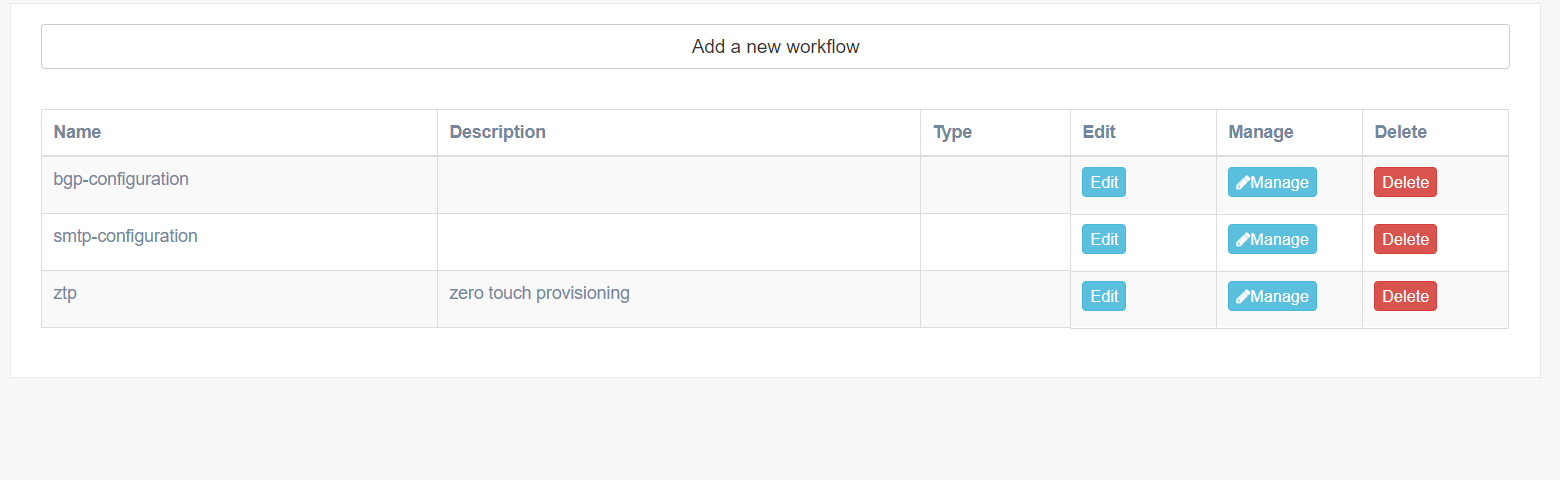
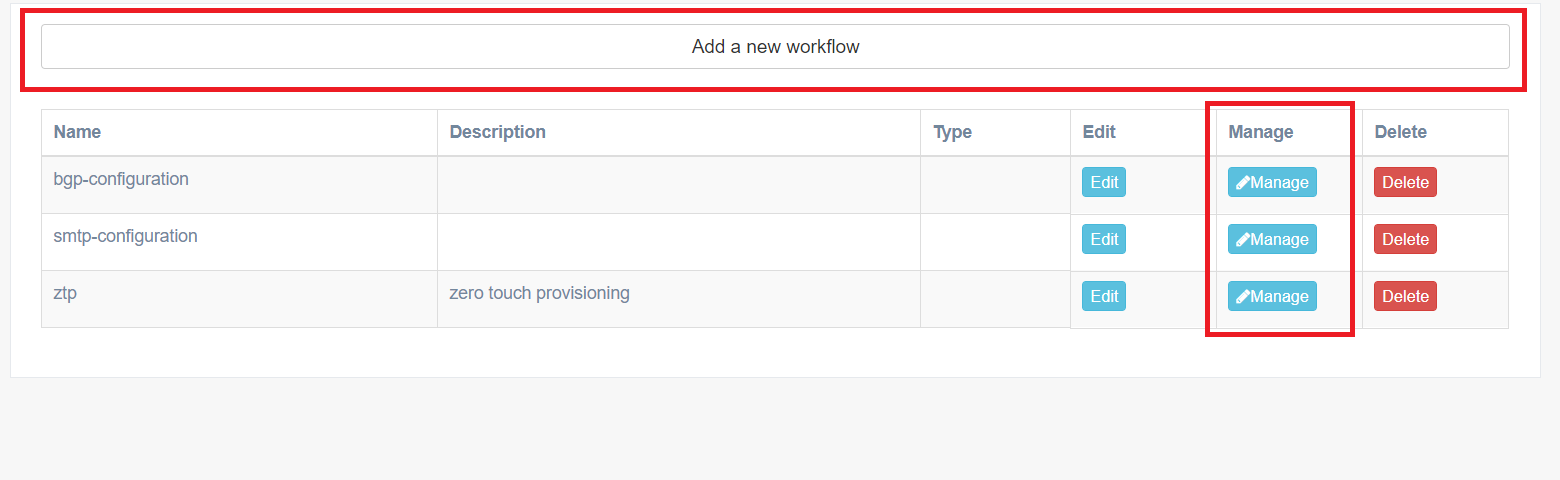
update docs
Former-commit-id: df8dd3d78d9e6bae3a22a3b88eeda05fdb66f3ca

Changed region(s): [[0.0, 0.0, 0.9846, 0.7188]]

diff --git a/docs/automation/workflows.rst b/docs/automation/workflows.rst
@@ -2,9 +2,53 @@
 Workflows
 =========
 
+A workflow is a directed graph which nodes are scripts.
+Each script in eNMS returns a boolean value, ``True`` if it ran successfully, ``False`` otherwise.
+There are two types of edge in a workflow: ``success edge`` and ``failure edge``.
+The ``success edge`` indicates where to move in the graph if the source script was executed with success, while the ``failure edge`` does the same thing in case of failure.
 Workflows are created and managed from the :guilabel:`workflows/workflow_management` page. 
+
+A first example
+---------------
+
+Let's consider a workflow made of four scripts:
+    - ``configure-bgp``, a ``NAPALM configuration`` script that configures a BGP neighbor.
+    - ``NAPALM Commit``, that commits the changes with NAPALM.
+    - ``validate-bgp``, a ``Netmiko validation`` script that checks that the neighbor appears in the ``show ip bgp neighbors`` command.
+    - ``NAPALM Rollback``, that rollbacks the changes with NAPALM.
+
+The workflow below uses these four scripts together to configure a new BGP neighbor and rollbacks in case of problem.
+
+.. image:: /_static/automation/workflows/first_example.png
+   :alt: A first example
+   :align: center
+
+The green color of ``configure-bgp`` indicates that this is the beginning of the workflow (the first script to be executed). If ``configure-bgp`` is a success (it returns the boolean value ``True``, the ``success edge`` will be used, and the ``NAPALM Commit`` script will be executed.
+
+If ``NAPALM Commit`` runs successfully, ``validate-bgp`` will run and check that the neighbor was properly configured. If ``validate-bgp`` is a success, the workflow will stop here as there is no ``success edge`` starting from ``validate-bgp``. On the other hand, if it fails, the workflow will go on using the ``failure edge`` and the configuration will be rolled back with NAPALM.
 
 Creation of a workflow
 ----------------------
 
-Click on the 
+Click on the button ``Add a new workflow`` and fill the workflow creation form.
+The new workflow will be automatically added to the table of worflow.
+
+.. image:: /_static/automation/workflows/workflow_creation.png
+   :alt: Workflow creation
+   :align: center
+
+Clicking on the ``Manage`` button in the table of workflows opens the ``Workflow builder``.
+
+Workflow builder
+----------------
+
+.. image:: /_static/automation/workflows/workflow_builder.png
+   :alt: Workflow builder
+   :align: center
+
+* :guilabel:`Add script`: open a window to select which script you want to add to the workflow.
+* :guilabel:`Delete selection`: delete the selected script or edge.
+* :guilabel:`Set as start`: the selected script is set as the beginning of the workflow. It will be highlighted in green.
+* :guilabel:`Success edge`: switch to the ``success edge`` creation mode, allowing you to draw ``success edge`` between scripts.
+* :guilabel:`Failure edge`: same as ``success edge``.
+* :guilabel:`Move node`: switch to the motion node, allowing you to drag the scripts on the canvas to better visualize the workflow.
